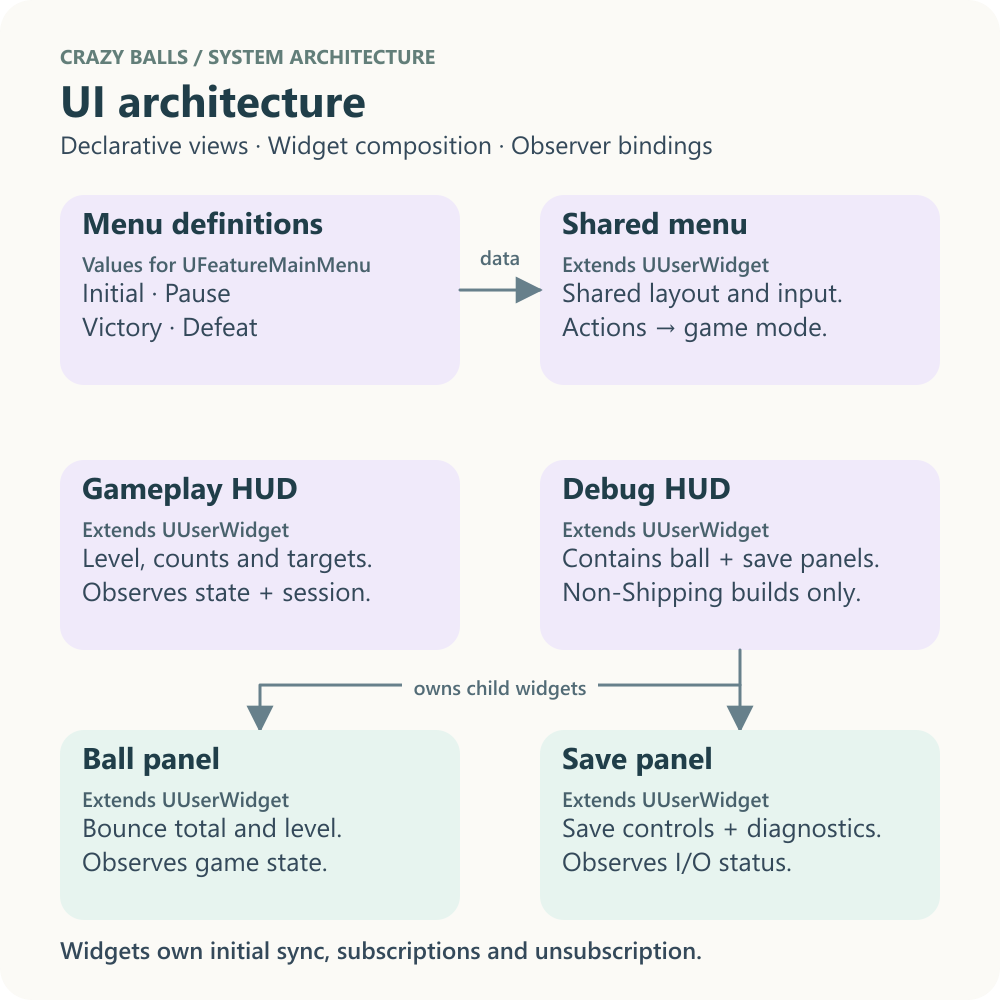
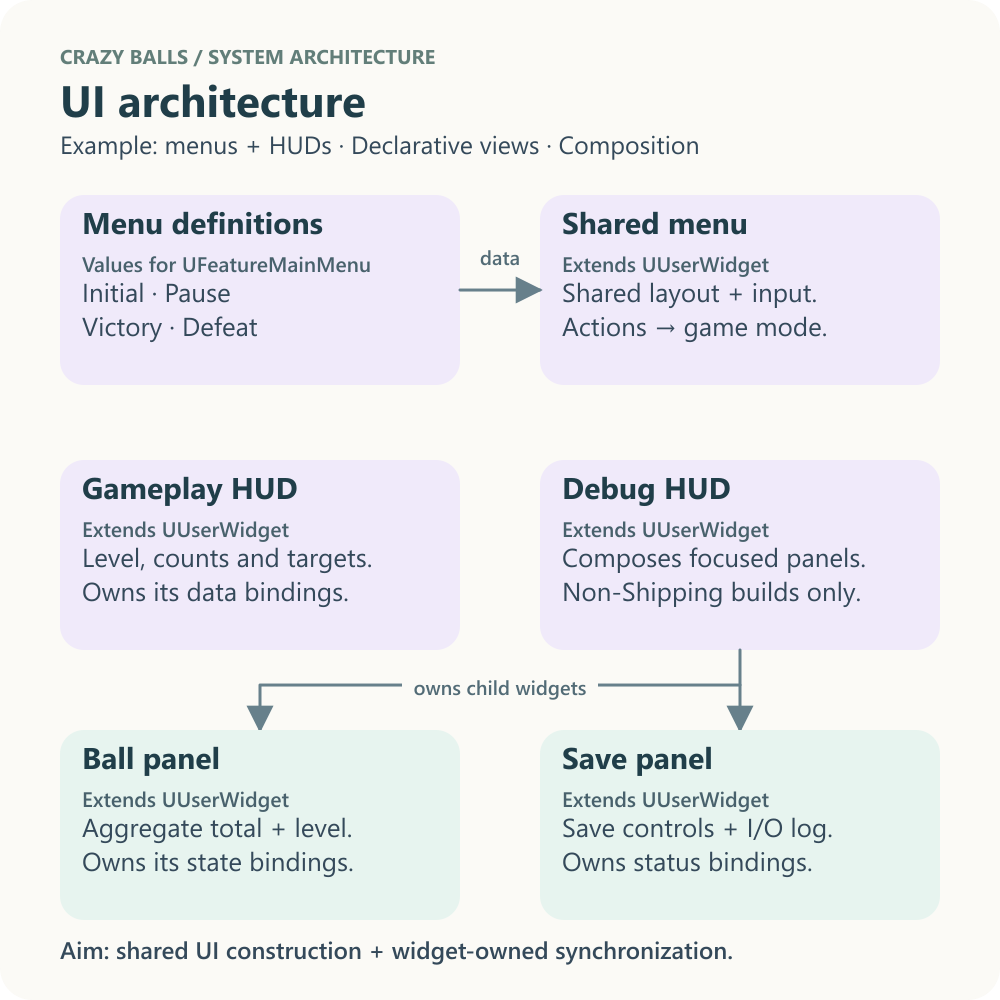
Task 51: refine architecture examples and resolve repository rule ambiguities

diff --git a/README.md b/README.md
@@ -77,7 +77,7 @@ The renamed game uses a `CrazyBalls` save slot. Saves from the former `FeatureSa
 
 All `.as` source and its project-authored C++ bridges stay in [Source/TestFeatures/Features_GameLogic](Source/TestFeatures/Features_GameLogic). [FeatureLevelRules.as](Source/TestFeatures/Features_GameLogic/FeatureLevelRules.as) is the only implementation of the win/loss threshold formulas. C++ owns the game-mode configuration and saved progress, passes integer values into the script, and uses the returned limits for gameplay and the HUD.
 
-The [rules world subsystem](Source/TestFeatures/Features_GameLogic/FeatureLevelRules.cpp) compiles the script once per world. Restart the session world to pick up edits; automatic script reload is not implemented. Script errors are logged and stop execution rather than selecting a duplicate C++ fallback. The build stages `.as` files as UFS runtime dependencies for packaged games.
+The [rules world subsystem](Source/TestFeatures/Features_GameLogic/FeatureLevelRules.cpp) reads and compiles the saved `.as` file once per world. For script-only changes, stop PIE, edit and save the script, then start PIE again. The new PIE world creates a fresh host that reads the latest file from disk. This requires neither a C++ game rebuild nor an editor restart; the AngelScript compiler handles the updated rules when the world initializes. Script errors are logged and stop execution rather than selecting a duplicate C++ fallback. The build stages `.as` files as UFS runtime dependencies for packaged games.
 
 The project links a prebuilt Win64 AngelScript static library through an external Unreal module. The [dependency manifest](Source/ThirdParty/FeatureAngelScriptRuntime/Dependency.json) pins its version, archive checksum, toolchain and build options. The [library README](Source/ThirdParty/FeatureAngelScriptRuntime/README.md) describes the supplied artifacts and update process. SDK source and build intermediates stay in the ignored `.dependencies/AngelScript/<version>` cache; normal Unreal builds only validate and link the library.
 
@@ -123,13 +123,15 @@ Gameplay remains paused until asynchronous save or load I/O finishes.
 
 ### Architecture
 
-Three square diagrams summarize responsibilities, dependencies, and patterns. Solid arrows show calls or data flow; the dashed arrow shows state observation. Expand the class references for full names and base types. These are architecture illustrations, not runtime captures.
+The flows below are small, purpose-built examples for this prototype. Each uses a concrete game feature to explore architectural benefits: clear ownership, localized dependencies, shared construction, and a single source of truth for rules and state. The patterns guide those boundaries; each implementation stays focused on its current use case and can grow when another use case needs it.
+
+Each view highlights its own boundary: gameplay events, UI construction, session lifecycle, script iteration, or helper ownership. Repeated class names provide context; their detailed responsibilities stay in the relevant view. Solid arrows show calls or data flow; the dashed arrow shows state observation. Expand the class references for full names and base types. These are architecture illustrations, not runtime captures.
 
 #### Gameplay architecture
 
 ![Square gameplay architecture diagram: session, arena, pool, ball, state bridge and shared state.](docs/images/feature-gameplay-flow.png)
 
-Object pooling reuses actors. Observer events connect balls to the state bridge and shared state without a direct ball-to-state dependency. Both player contact and the rebound limit retire a ball and schedule a replacement while playing.
+The ball cycle demonstrates Observer events and event-to-state translation. Balls report contacts and bounces; a focused bridge gives those events meaning as session statistics. The session observes the resulting score changes. This keeps physics behavior independent of shared state and UI. Pool ownership and reuse are detailed in the [non-UE helper view](#non-ue-helper-architecture).
 
 <details>
 <summary>Class reference</summary>
@@ -151,7 +153,7 @@ Source: [session](Source/TestFeatures/Features/GameWorkflow/FeatureGameplaySessi
 
 ![Square UI architecture diagram: declarative menu definitions, shared menu, gameplay HUD and composed debug panels.](docs/images/feature-ui-flow.png)
 
-Declarative views share one menu implementation. The game mode manages menus; the player controller manages HUD lifetime. Widgets own their Observer bindings.
+The four menu views demonstrate declarative differences over shared construction: common layout and behavior have one implementation, and each view supplies its heading and actions. The game mode manages menus; the player controller manages HUD lifetime. Widgets own their Observer bindings, so display changes stay within UI code and controllers do not need to know which state events update which labels.
 
 <details>
 <summary>Class reference</summary>
@@ -173,7 +175,7 @@ Source: [views](Source/TestFeatures/Features/UI/Views/FeatureMenuViews.cpp) · [
 
 ![Square session architecture diagram: game mode, gameplay session, progress state, save coordinator, storage and snapshot.](docs/images/feature-workflow-flow.png)
 
-An enum-based state machine controls round transitions in the world subsystem. The game-instance subsystem coordinates persistence; storage creates a value snapshot from current state. The game state requests save/load operations, and the save subsystem publishes restored data and I/O status.
+A small enum-based state machine makes round transitions explicit. World and game-instance subsystems separate round lifetime from persistence coordination, while value snapshots separate saved progress from live actors. The game state requests save/load operations, and the save subsystem publishes restored data and I/O status. This example explores lifecycle ownership and observable operations with a deliberately small set of states.
 
 <details>
 <summary>Class reference</summary>
@@ -191,9 +193,54 @@ An enum-based state machine controls round transitions in the world subsystem. T
 
 Source: [game mode](Source/test_UE_584_G1_c/test_UE_584_G1_cGameMode.cpp) · [save coordinator](Source/TestFeatures/Features/GameWorkflow/FeatureSaveGameSubsystem.cpp) · [storage](Source/TestFeatures/Features_NonUE/FeatureSaveGameStorage.cpp) · [snapshot](Source/TestFeatures/Features/GameWorkflow/FeatureSaveGame.h).
 
+#### Game logic architecture
+
+![Square game logic architecture diagram: C++ session values enter the rules host, AS functions calculate thresholds, and results return to the session.](docs/images/feature-gamelogic-flow.png)
+
+The main driver for AngelScript is to change simple, code-based game logic without recompiling the C++ game. The two threshold functions demonstrate value-based bindings: a world-scoped host passes level and settings into AS, and the session and HUD share the returned limits. C++ owns configuration and saved state; AS owns the formulas. The host and scripts stay together in `Features_GameLogic`.
+
+Each new PIE world creates a fresh `UFeatureLevelRules` host that reads and compiles the latest saved script. That provides the edit-and-restart workflow shown above, with the existing C++ binary and editor. Live hot reload is a secondary convenience; changes to native bindings still require a C++ build. See [AngelScript rules](#angelscript-rules) for usage and packaging.
+
+<details>
+<summary>Class and binding reference</summary>
+
+| Diagram role | Class or value | Base or primary consumer |
+| --- | --- | --- |
+| Gameplay session | `UFeatureGameplaySession` | Extends `UWorldSubsystem`; supplies level and configuration values |
+| C++ rules host | `UFeatureLevelRules` | Extends `UWorldSubsystem`; owns the native script engine and context |
+| AngelScript rules | `PlayerContactsToWin` / `SessionBouncesToLose` in `FeatureLevelRules.as` | Stateless functions called by `UFeatureLevelRules` |
+| AngelScript library | `FeatureAngelScriptRuntime` external module | Links the pinned Win64 static library into `TestFeatures` |
+| Calculated limits | `int32` return values | Consumed by session limit checks and the gameplay HUD |
+
+</details>
+
+Source: [AS rules](Source/TestFeatures/Features_GameLogic/FeatureLevelRules.as) · [C++ host](Source/TestFeatures/Features_GameLogic/FeatureLevelRules.cpp) · [session consumers](Source/TestFeatures/Features/GameWorkflow/FeatureGameplaySession.cpp) · [dependency manifest](Source/ThirdParty/FeatureAngelScriptRuntime/Dependency.json). See the [library README](Source/ThirdParty/FeatureAngelScriptRuntime/README.md) for versioning and updates.
+
+#### Non-UE helper architecture
+
+![Square non-UE helper architecture diagram: session, save coordinator and player controller call ball-pool, storage and debug-HUD factory helpers.](docs/images/feature-nonue-flow.png)
+
+This view focuses on ownership and narrow helper APIs. The session owns its pool by value; weak references observe world-owned actors without retaining them. Storage and HUD factory helpers contain the engine API details needed by their callers. These are plain C++ classes using Unreal types, with no UObject lifetime of their own. Event scoring belongs to the gameplay view, rendered composition to the UI view, and pause/result coordination to the session view.
+
+<details>
+<summary>Class and ownership reference</summary>
+
+| Diagram role | Class | Base or primary consumer |
+| --- | --- | --- |
+| Gameplay session | `UFeatureGameplaySession` | Extends `UWorldSubsystem`; owns the pool helper by value |
+| Ball pool helper | `FFeatureBallSpawner` | Creates `AFeatureBall` for `UFeatureGameplaySession`; world owns actors |
+| Save coordinator | `UFeatureSaveGameSubsystem` | Extends `UGameInstanceSubsystem`; coordinates persistence |
+| Save storage helper | `FFeatureSaveGameStorage` | Creates `UFeatureSaveGame` snapshots for the save coordinator; also serves menu previews |
+| Player controller | `Atest_UE_584_G1_cPlayerController` | Extends `APlayerController`; retains and removes HUD widgets |
+| Debug HUD factory | `FFeatureDebugHUDSpawner` | Creates `UFeatureDebugHUD` for the player controller in non-Shipping builds |
+
+</details>
+
+Source: [ball pool](Source/TestFeatures/Features_NonUE/FeatureBallSpawner.cpp) · [save storage](Source/TestFeatures/Features_NonUE/FeatureSaveGameStorage.cpp) · [HUD factory](Source/TestFeatures/Features_NonUE/FeatureDebugHUDSpawner.cpp) · [player controller](Source/test_UE_584_G1_c/test_UE_584_G1_cPlayerController.cpp).
+
 The `TestFeatures` runtime module houses gameplay, UI, and persistence. Unreal and Blueprint provide the framework and supplementary assets; AngelScript implements the level-threshold rules through an embedded standalone runtime.
 
-Within `TestFeatures/Features`, `Gameplay` contains balls, bounds, and bounce state. `GameWorkflow` contains session and persistence code. `UI` contains menus and HUD panels. Plain C++ spawning and storage helpers live in the sibling `Features_NonUE` folder.
+Within `TestFeatures/Features`, `Gameplay` contains balls, bounds, and bounce state. `GameWorkflow` contains session and persistence code. `UI` contains menus and HUD panels. AngelScript rules and their C++ bridges live together in the sibling `Features_GameLogic` folder. Plain C++ spawning, storage, and HUD factory helpers live in `Features_NonUE`.
 
 - [Gameplay systems and HUD](Source/TestFeatures/Features/README.md)
 - [Runtime helpers](Source/TestFeatures/Features_NonUE/README.md)

diff --git a/AGENTS.MD b/AGENTS.MD
@@ -39,9 +39,9 @@ These goals will guide future tasks:
 ## Code standards
 
 
-1. Use as little files as possible, this is a simple project.
-2. Do not add defensive code, it is more important to give clarity to the code features understanding and reading.
-3. No need to ask editor or other guards unless required to.
+1. Prioritize cohesive responsibilities, localized dependencies, and decoupling over minimizing file count. Keep the number of files small where those goals allow.
+2. Do not add defensive checks or guards unless the task explicitly requests them. Keep feature logic straightforward and readable.
+3. Once an action is authorized, proceed without asking for the same confirmation again. Preserve the explicit editor-operation and runtime-validation authorization requirements in rules 17 and 18.
 4. Commits: if a task is being implemented, always mention it on the description.
 5. Commits: commits should give a brief but useful description of changes.
 6. Avoid too many one liners, when possible, separate in functions that act as groupers to have a better top down understanding of code.
@@ -58,11 +58,11 @@ These goals will guide future tasks:
 17. Perform editor operations only when the user explicitly requests them, and use Unreal Editor MCP for those operations. For an authorized editor task, if the MCP endpoint is unavailable and Unreal Editor is closed, launch this project's `.uproject` so the server starts automatically. If the editor is already starting, wait rather than opening another instance. Wait for startup to finish and for the MCP endpoint to respond before operating the editor. If this chat still does not expose the tools after the server is ready, start a new Codex chat in this project. The agent may close an editor instance it started itself when needed for its work, without asking the user.
 18. Default implementation validation is compile-only. Run Unreal Editor, standalone gameplay, automation tests, or other runtime validation only when the user explicitly requests that validation. Keep requested validation focused on the relevant behavior.
 19. Move a task to Done only after the user explicitly asks to implement that task and its implementation is complete. Leave related tasks in To do even if their behavior is already implemented.
-20. Use `Feature` in the project display name and as the prefix for feature class names, source files, and console commands.
+20. Keep technical project/module identifiers separate from public, user-facing names. Use `Feature` as the prefix for feature class names, source files, and console commands. Public branding and display titles come from configuration and do not require that prefix.
 21. Preserve or migrate old save games only when the user explicitly requests save compatibility.
 22. Update `CHANGES.md` only when the user explicitly requests a changelog update. When requested, link relevant source and any available verified evidence. A changelog request does not authorize taking screenshots or running the editor or game unless the user also requests those actions.
 23. Never create a git commit unless the user explicitly asks to commit.
-24. Never change line breaks, indentation, whitespace, or make irrelevant formatting changes unless explicitly requested.
+24. Preserve existing formatting outside the requested work. Allow line-break, indentation, and whitespace changes necessary for an authorized implementation or prose correction; avoid unrelated formatting changes unless explicitly requested.
 25. When the user says "commit as new task", inspect both Done and To do task indexes, calculate one greater than the highest index across both lists, and prefix that number with the literal digits "100" to distinguish these tasks. Record the completed task and include its prefixed task number in the commit description.
 26. In CHANGES.md, display screenshot evidence directly as inline images rather than linking to them.
 27. For related UI views, keep shared construction, styling, and behavior in common UI code, and express each view's differences declaratively in code. Use another data format only when it provides a clear benefit.
@@ -73,6 +73,8 @@ These goals will guide future tasks:
 32. Keep project-authored AngelScript bridge code, including C++ script hosts and bindings, in `Source/TestFeatures/Features_GameLogic` alongside the `.as` scripts. This also applies to UE-derived bridge classes as a focused exception to the general UE folder rule. Keep the external SDK/library dependency separate under ThirdParty, with SDK implementation source in the ignored dependency cache.
 
 ## Tasks
+
+Done entries record completed milestones at the time they were implemented. Preserve their history and mark details superseded by later work; use the current implementation and README for current behavior.
 
 ### Done
 
@@ -107,15 +109,15 @@ These goals will guide future tasks:
 34. Package Win64 builds in Development, DebugGame, and Shipping configurations.
 35. Gameplay: Spawn a configurable collision enclosure around the level at gameplay-session start.
 36. Gameplay: Retire balls after five non-player bounces. On player contact, retire the ball and spawn a replacement.
-37. End state: End a winning session, record Victory, and show a fullscreen result with Continue returning to the initial menu.
+37. End state: End a winning session, record Victory, and show a fullscreen result with Continue returning to the initial menu. (Historical menu flow; superseded by Bug 2.)
 38. End state: End a losing session, record Defeat, and show the same result flow.
 39. Organization: Move feature code into UI, Gameplay, and GameWorkflow subfolders.
 40. Gameplay: Persist a chronological array of started sessions with their statistics.
 41. Gameplay: Enable player-ball blocking collisions and record their count in the active session.
 42. Gameplay: Configure per-session victory and defeat limits and pause when either is reached.
-43. Gameplay: Persist the current level, starting at 1. Victory advances it; defeat and Retry retain it. New Game resets it to 1. Show "Continue on level N" in the initial menu. Increase the win limit and decrease the loss limit by one per level, with a minimum loss limit of one bounce.
+43. Gameplay: Persist the current level, starting at 1. Victory advances it; defeat and Retry retain it. New Game resets it to 1. Show "Continue on level N" in the initial menu. Increase the win limit and decrease the loss limit by one per level, with a minimum loss limit of one bounce. (Historical loss floor; configuration updated by task 53.)
 44. Gameplay: Show a HUD with the current player and non-player bounce counts and the respective win and loss limits.
-45. Gameplay: Spawn five balls initially and prewarm a pool three times that size.
+45. Gameplay: Spawn five balls initially and prewarm a pool three times that size. (Historical pool ratio; current prewarm matches the initial ball count.)
 46. End: The defeat screen shows only Retry and Exit. Retry restarts the current level.
 47. End: Save the game state whenever an end state is reached.
 49. UI: Define the initial, pause, victory, and defeat menu views declaratively in UI/Views, and move the menu and HUD archetypes to UI/Archetypes.
